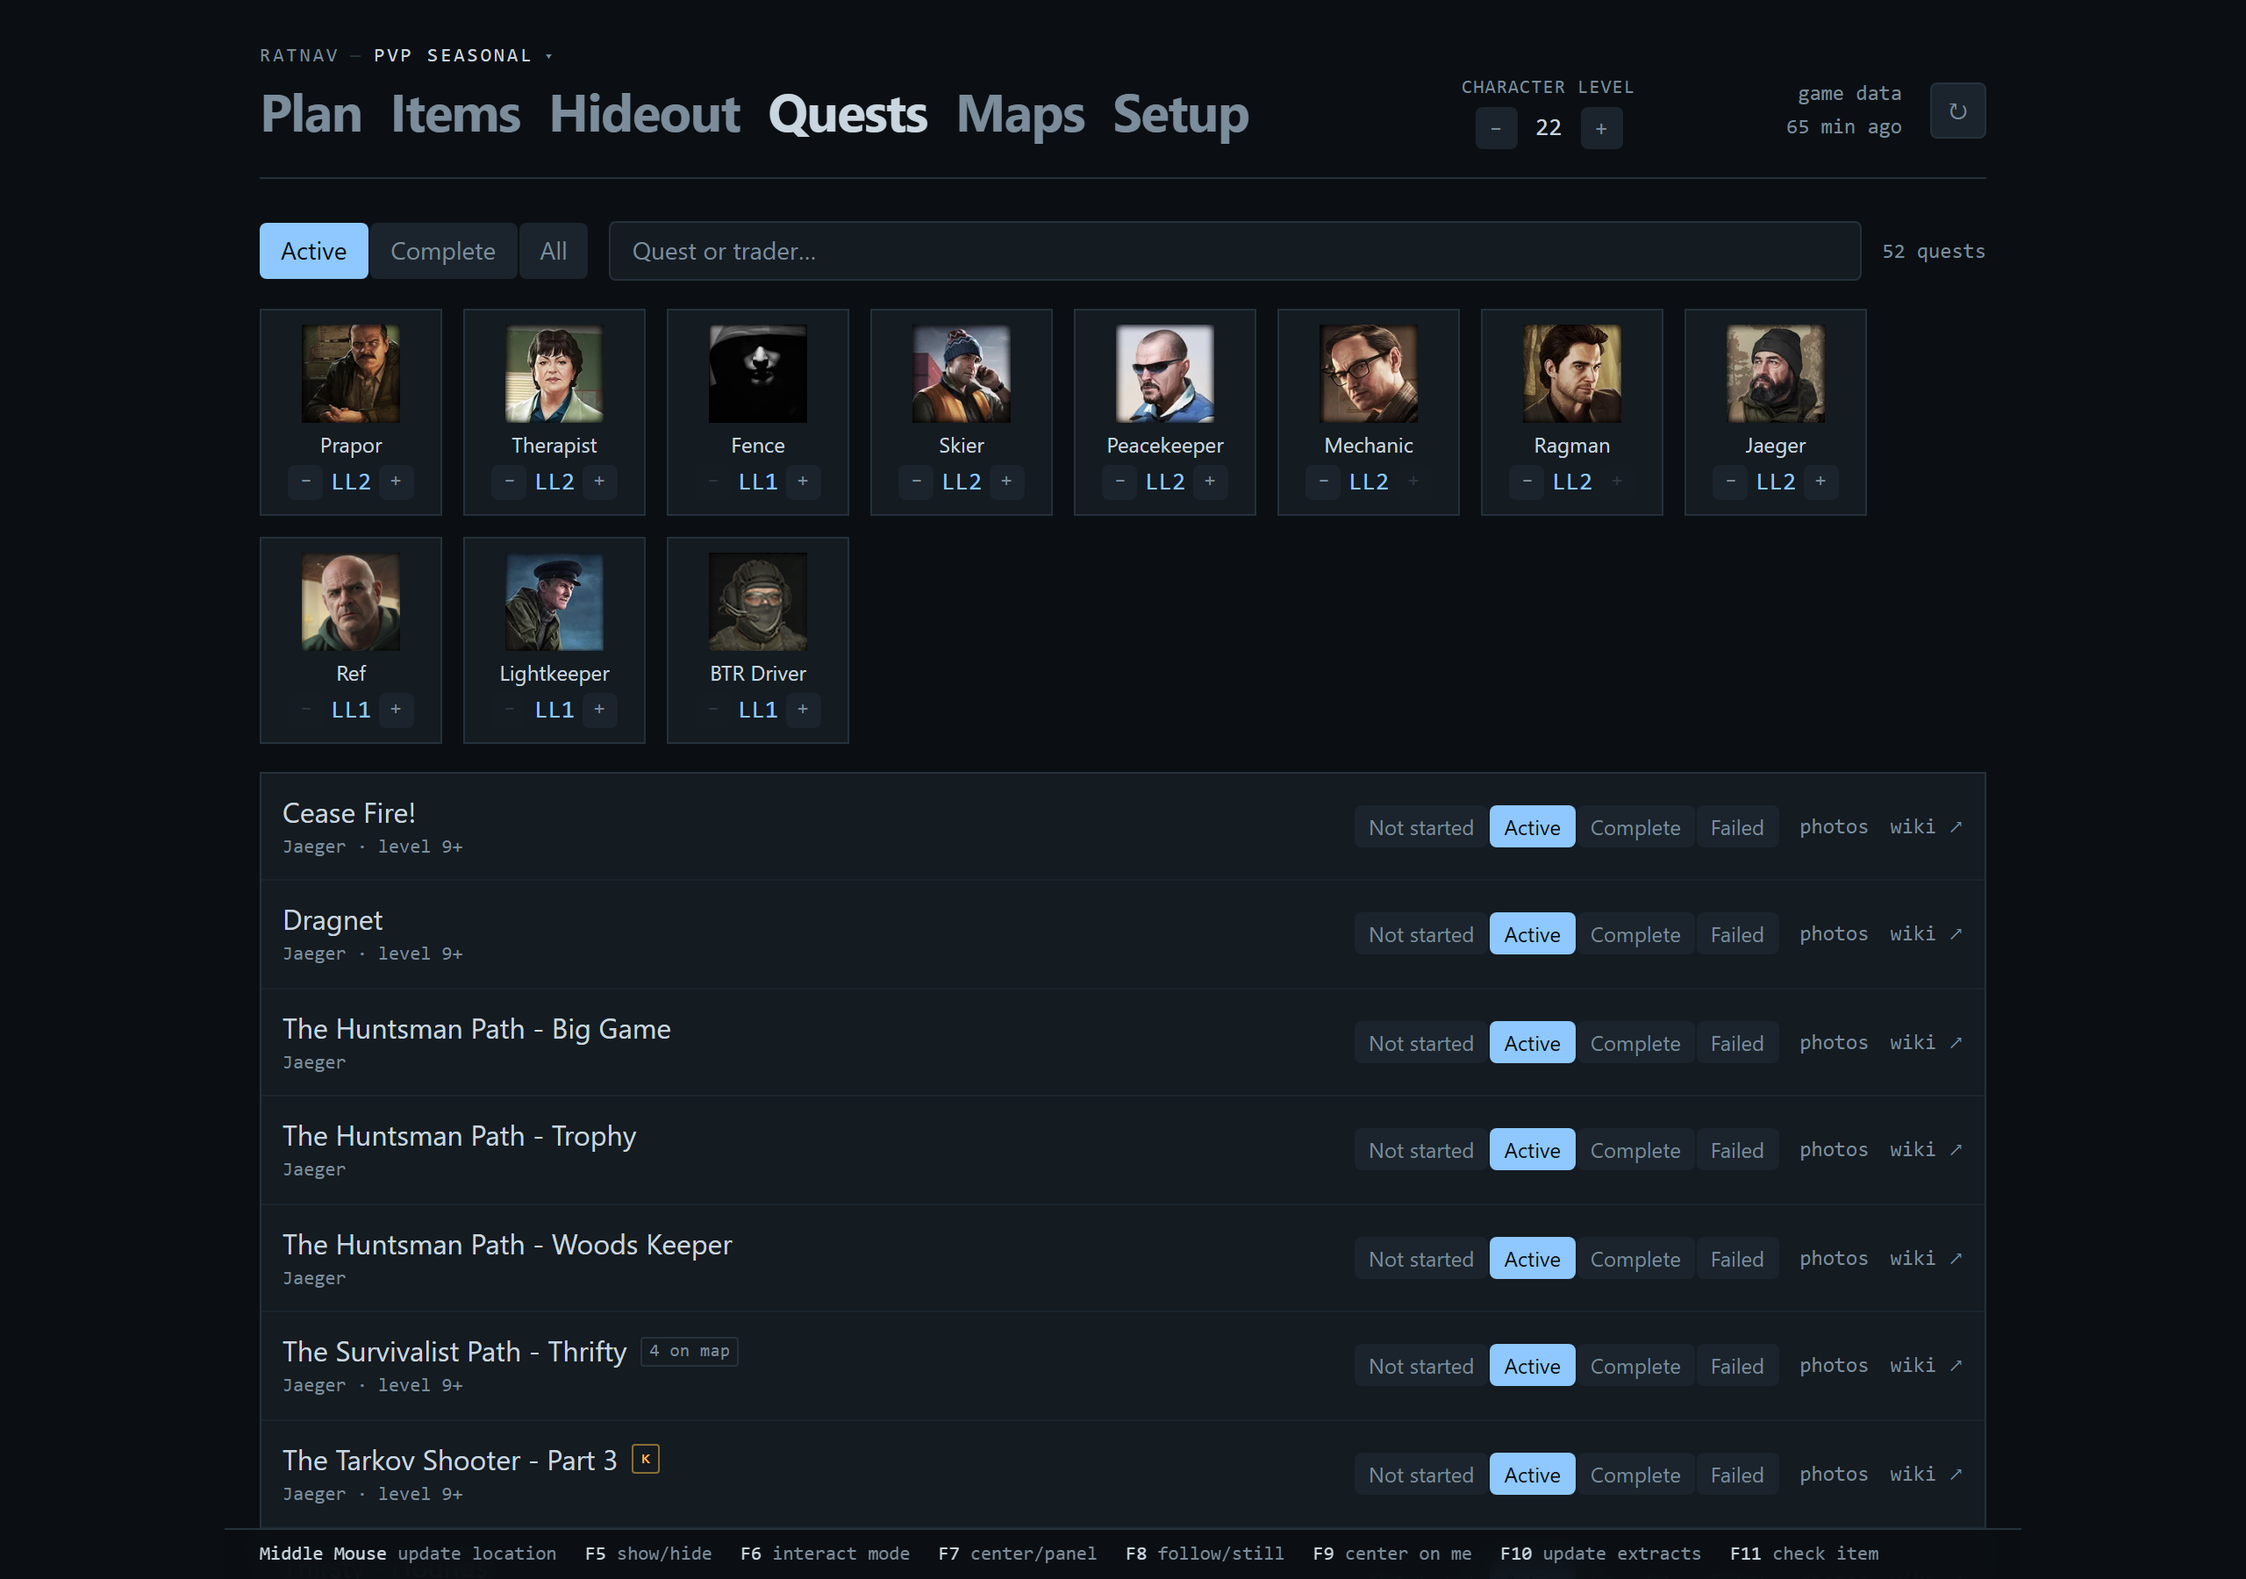
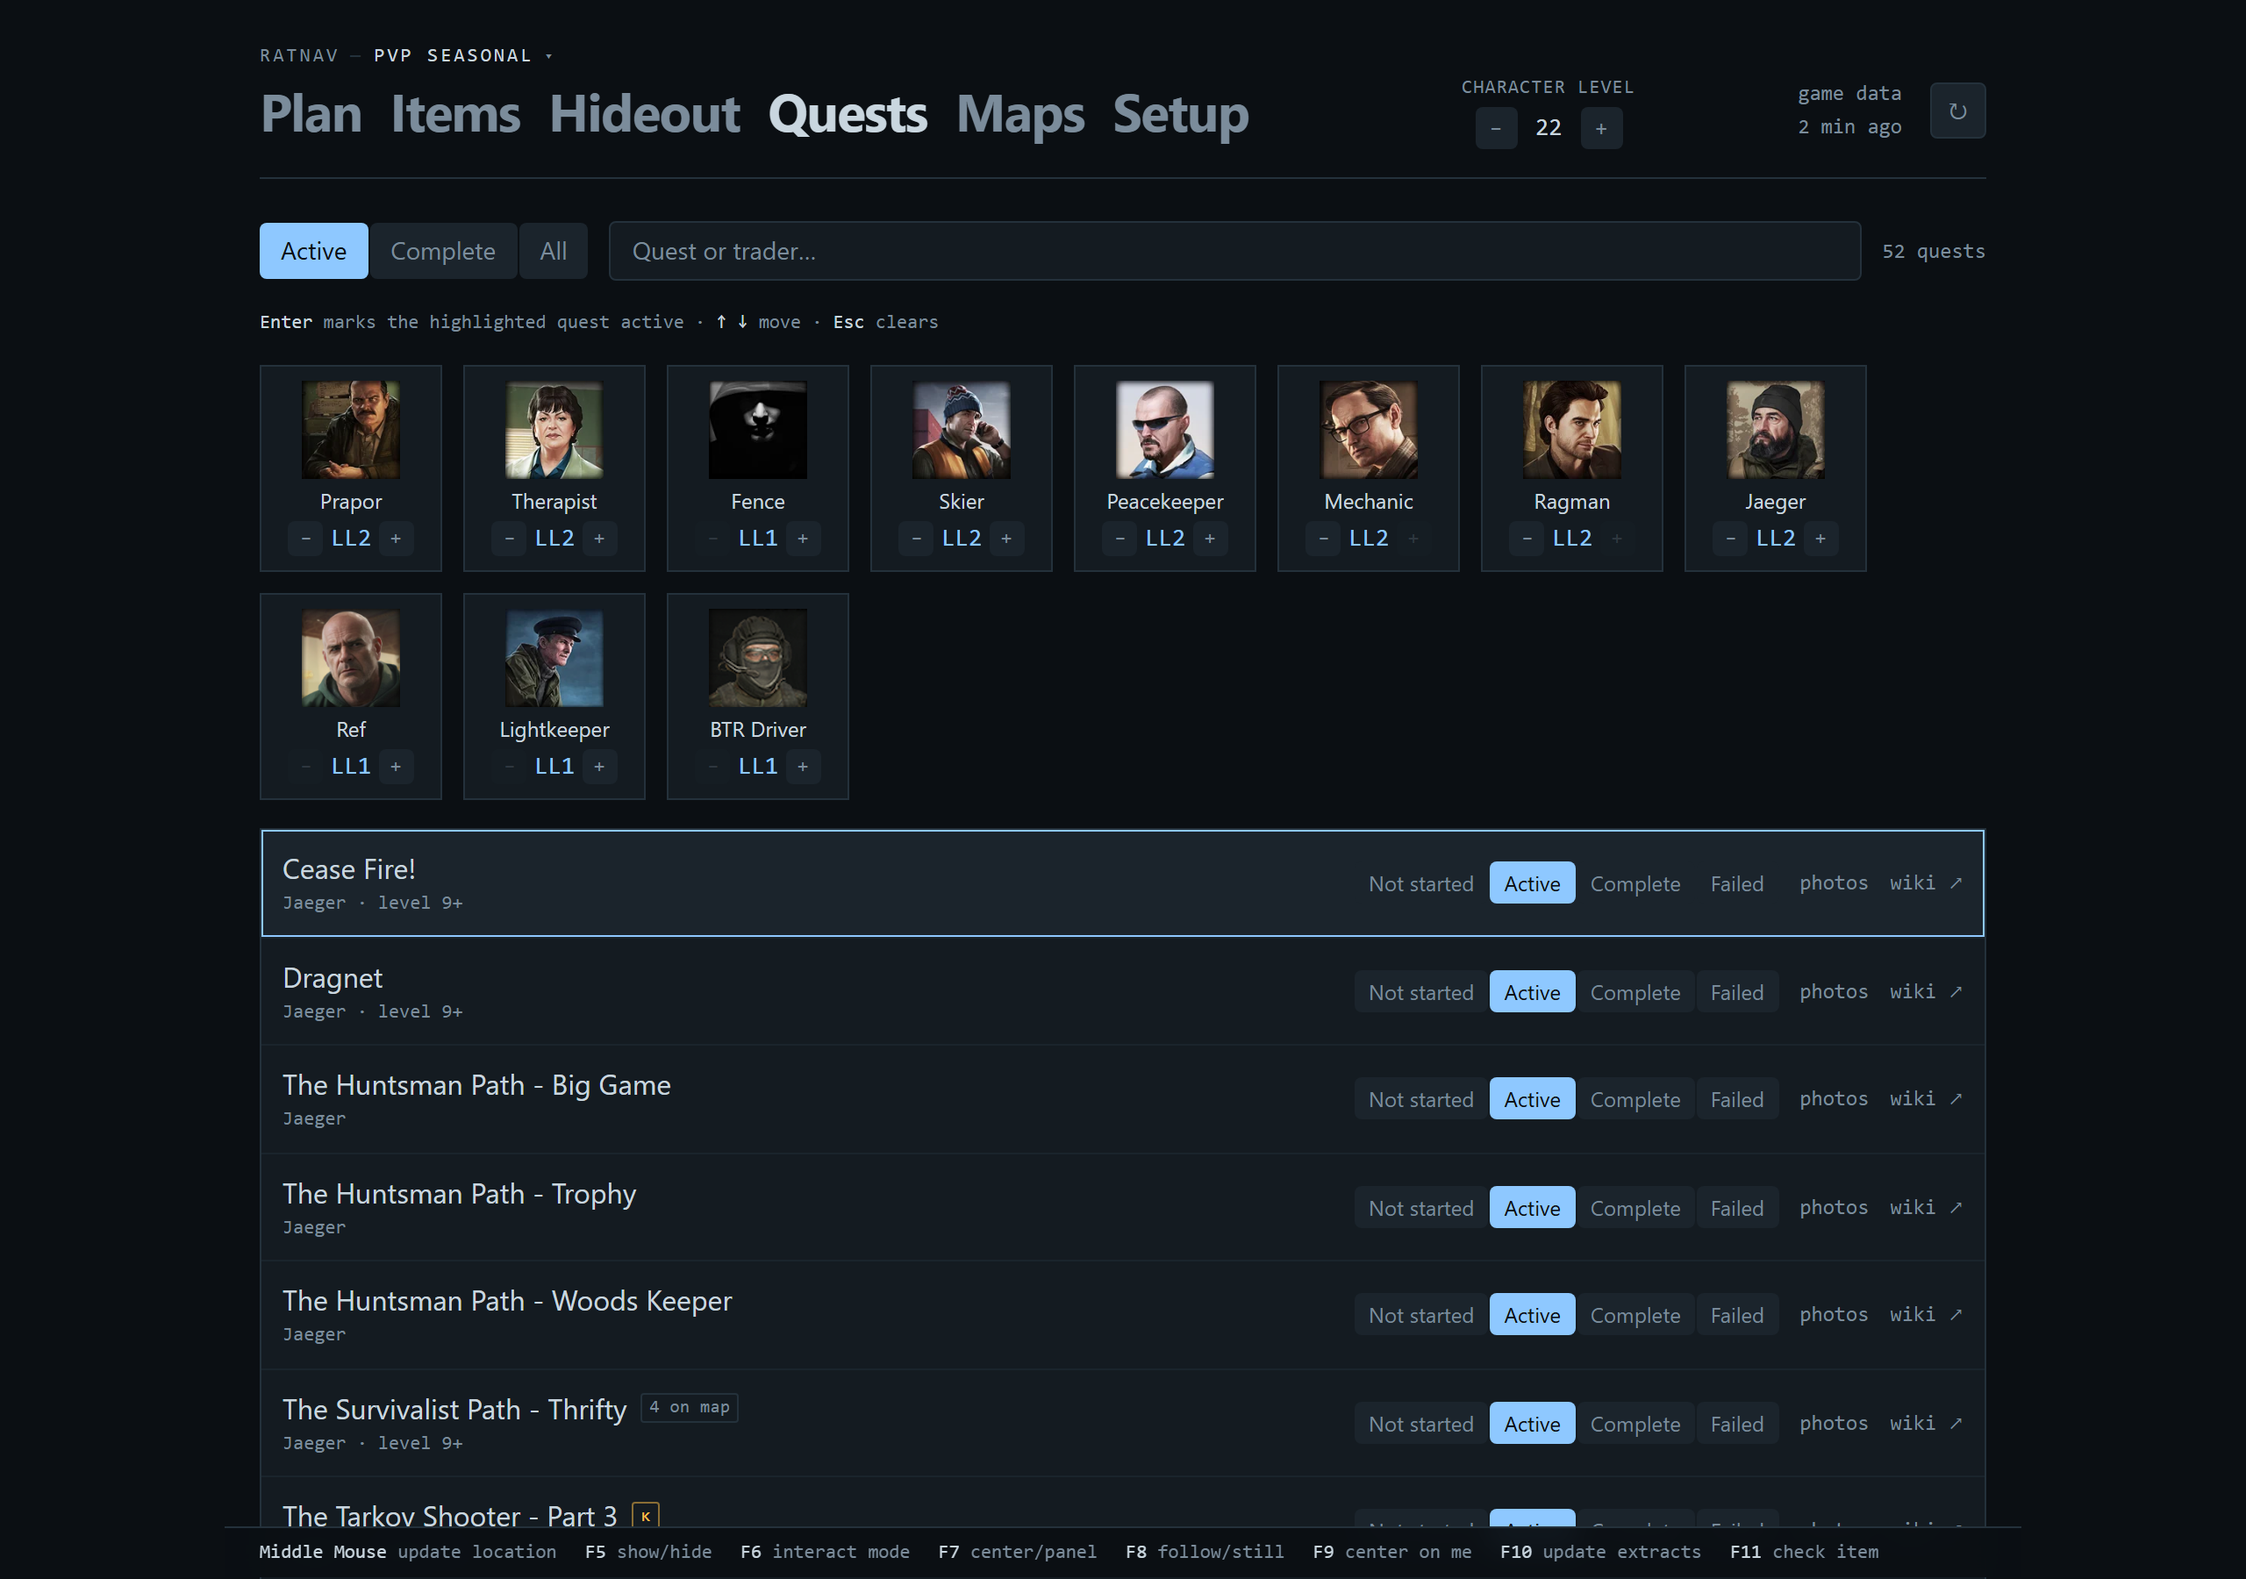
Mark a quest active from the search box (#6)
* Mark a quest active from the search box

A tester set up from scratch and had to mark over fifty quests active
with the mouse, one at a time, before seeing anything RatNav is good
for. Everything else in their feedback was positive, which makes this
the thing standing between an install and the good part.

Type part of a name, press Enter. Arrows move the highlight without the
caret leaving the text, so a search can be narrowed and picked from
without hands moving. Escape clears.

The box clearing itself after Enter is the actual feature. Typing a
name, pressing Enter, then selecting and deleting what you typed is
three actions where there should be one, and across fifty quests that
difference is the whole point.

Marking one that is already active says so rather than doing nothing,
because silence is what makes somebody type it again. Announcements go
through aria-live and are shown beside the box: the row usually scrolls
out of view as it changes state, and a change you cannot see is one you
reach for the mouse to confirm.

The input is a combobox over the list with aria-activedescendant, so
what Enter would act on is announced rather than being a highlight only
sighted users can see.

Claude-Session: https://claude.ai/code/session_0177xkMJ97wdCNeV4S9EESGa

* Document the keyboard flow, and retake the Quests shot

Behavior a user would notice changed, so the guide and README change in
the same commit — the rule exists because the docs described features
[…]

Changed region(s): [[0.125, 0.1867, 0.8438, 0.9956], [0.4375, 0.4978, 0.875, 0.9956]]

diff --git a/web/src/QuestsView.tsx b/web/src/QuestsView.tsx
@@ -1,4 +1,4 @@
-import { useCallback, useEffect, useState } from 'react'
+import { useCallback, useEffect, useRef, useState } from 'react'
 import { api, type TaskSummary, type Trader, type WikiImage } from './api'
 
 /**
@@ -41,6 +41,32 @@ export function QuestsView() {
   const [tasks, setTasks] = useState<TaskSummary[]>([])
   const [loading, setLoading] = useState(true)
 
+  /**
+   * Which row the keyboard is on.
+   *
+   * <p>Setting up a fresh install means marking fifty or more quests active, read off the game on
+   * the other monitor. Done with the mouse that is fifty round trips of type, let go of the
+   * keyboard, aim at a small button, come back — before you have seen a single thing RatNav is
+   * good for. So the whole job is done from the search box: type part of a name, press Enter.</p>
+   *
+   * <p>An index rather than an id, because the list is re-fetched as you type and an id would
+   * point at a row that is no longer shown.</p>
+   */
+  const [highlighted, setHighlighted] = useState(0)
+
+  /**
+   * Said out loud after a keystroke does something.
+   *
+   * <p>The row often scrolls out of view the moment it changes state, and a change you cannot see
+   * is one you do not trust — so you reach for the mouse to check, which is the thing this exists
+   * to avoid. Read by screen readers through aria-live, and shown next to the box for everybody
+   * else.</p>
+   */
+  const [said, setSaid] = useState('')
+
+  const searchBox = useRef<HTMLInputElement>(null)
+  const rows = useRef<(HTMLLIElement | null)[]>([])
+
   const load = useCallback(async () => {
     setLoading(true)
     try {
@@ -80,6 +106,77 @@ export function QuestsView() {
     load()
   }
 
+  // The highlight follows the list. Re-fetching on every keystroke means row 4 of the old results
+  // is nothing in particular in the new ones.
+  useEffect(() => { setHighlighted(0) }, [tasks, trader, filter])
+
+  // Keep the highlighted row on screen. Without this, arrowing down walks off the bottom and the
+  // row you are about to act on is the one you cannot see.
+  useEffect(() => {
+    rows.current[highlighted]?.scrollIntoView({ block: 'nearest' })
+  }, [highlighted])
+
+  /**
+   * Marks the highlighted quest active, then clears the box.
+   *
+   * <p>The clearing is the point. Typing a name, pressing Enter and then having to select and
+   * delete what you typed is three actions where there should be one — and with fifty quests to
+   * enter, that difference is the whole feature. Type, Enter, type, Enter.</p>
+   */
+  async function activateHighlighted() {
+    const task = shown[highlighted]
+
+    if (!task) {
+      setSaid(query ? `Nothing matches "${query}".` : 'Nothing to mark.')
+      return
+    }
+
+    if (task.state === 'Active') {
+      // Not an error and not silence. Saying so is what stops somebody typing it again.
+      setSaid(`${task.name} was already active.`)
+      setQuery('')
+      return
+    }
+
+    await setState(task, 'Active')
+    setSaid(`${task.name} is now active.`)
+    setQuery('')
+  }
+
+  /**
+   * The search box is the whole interface, so it carries the keys.
+   *
+   * <p>Arrows move the highlight without the caret leaving the text, which is what lets you narrow
+   * a search and pick from what is left without your hands moving.</p>
+   */
+  function onSearchKey(event: React.KeyboardEvent<HTMLInputElement>) {
+    if (event.key === 'ArrowDown') {
+      event.preventDefault()
+      setHighlighted((at) => Math.min(at + 1, shown.length - 1))
+      return
+    }
+
+    if (event.key === 'ArrowUp') {
+      event.preventDefault()
+      setHighlighted((at) => Math.max(at - 1, 0))
+      return
+    }
+
+    if (event.key === 'Enter') {
+      event.preventDefault()
+      void activateHighlighted()
+      return
+    }
+
+    // Escape empties the box rather than blurring it. Somebody who mistypes a name wants to type
+    // the next one, not to find their way back to the field.
+    if (event.key === 'Escape') {
+      event.preventDefault()
+      setQuery('')
+      setSaid('')
+    }
+  }
+
   return (
     <div className="flex flex-col gap-4">
       {showing && <Photos task={showing} onClose={() => setShowing(null)} />}
@@ -101,9 +198,20 @@ export function QuestsView() {
           ))}
         </div>
 
+        {/*
+          A combobox over the list below, so a screen reader announces which row Enter would act
+          on rather than leaving the highlight as something only sighted users can see.
+        */}
         <input
+          ref={searchBox}
           value={query}
           onChange={(e) => setQuery(e.target.value)}
+          onKeyDown={onSearchKey}
+          role="combobox"
+          aria-expanded={shown.length > 0}
+          aria-controls="quest-list"
+          aria-activedescendant={shown[highlighted] ? `quest-${shown[highlighted].id}` : undefined}
+          aria-label="Search quests. Enter marks the highlighted quest active."
           placeholder={filter === 'all' ? 'Search every quest…' : 'Quest or trader…'}
           className="min-w-48 flex-1 rounded-sm border border-line bg-panel px-3 py-1.5 text-sm
                      text-ink placeholder:text-muted focus-visible:outline-2 focus-visible:outline-accent"
@@ -113,6 +221,28 @@ export function QuestsView() {
           {shown.length} quests
           {failed > 0 && <span className="text-need"> · {failed} failed</span>}
         </p>
+      </div>
+
+      {/*
+        What the keys do, and what the last one did.
+
+        The hint is here rather than in the guide because somebody setting up for the first time is
+        looking at this page, not reading documentation — and this is the page where the shortcut
+        saves an hour.
+
+        aria-live is polite: it waits for a pause rather than interrupting, which is right for
+        somebody typing quickly through a list of fifty.
+      */}
+      <div className="flex flex-wrap items-center justify-between gap-3 font-mono text-[11px]">
+        <p className="text-muted">
+          <kbd className="text-ink">Enter</kbd> marks the highlighted quest active
+          {' · '}
+          <kbd className="text-ink">↑</kbd> <kbd className="text-ink">↓</kbd> move
+          {' · '}
+          <kbd className="text-ink">Esc</kbd> clears
+        </p>
+
+        <p aria-live="polite" className="text-accent">{said}</p>
       </div>
 
       {/*
@@ -207,9 +337,19 @@ export function QuestsView() {
       )}
 
       {!loading && shown.length > 0 && (
-        <ul className="flex flex-col gap-px border border-line bg-line-soft">
-          {shown.map((task) => (
-            <li key={task.id} className="flex flex-wrap items-center gap-3 bg-panel px-3 py-2.5">
+        <ul id="quest-list" className="flex flex-col gap-px border border-line bg-line-soft">
+          {shown.map((task, at) => (
+            <li
+              key={task.id}
+              id={`quest-${task.id}`}
+              ref={(row) => { rows.current[at] = row }}
+              aria-selected={at === highlighted}
+              className={`flex flex-wrap items-center gap-3 px-3 py-2.5 ${
+                at === highlighted
+                  ? 'bg-panel-hi ring-1 ring-inset ring-accent'
+                  : 'bg-panel'
+              }`}
+            >
               <div className="min-w-56 flex-1">
                 <div className="flex flex-wrap items-center gap-2">
                   <span className={

diff --git a/README.md b/README.md
@@ -225,9 +225,11 @@ what each one is *for* on the line beneath it. Filter to found-in-raid, or keys,
 ![The Items page: needed items with their icons, found-in-raid flags and what each one is for, above them the Needed, Watchlist and Custom scopes and a running count of items, how many are still needed and how many must be found in raid](docs/app/items.png)
 
 **Quests.** Every trader with their portrait and loyalty level, and each quest's state as four
-buttons — with a link to the wiki and the wiki's own screenshots of the place.
+buttons — with a link to the wiki and the wiki's own screenshots of the place. Setting up is done
+from the keyboard: type part of a name, press **Enter** to mark it active, and the box clears
+itself for the next one.
 
-![The Quests page: trader portraits with loyalty controls above a list of active quests, each with not-started, active, complete and failed controls](docs/app/quests.png)
+![The Quests page: a search box with a line beneath it saying Enter marks the highlighted quest active, arrows move and Esc clears, then trader portraits with loyalty controls, then a list of active quests with the first row highlighted, each row carrying not-started, active, complete and failed controls](docs/app/quests.png)
 
 **Hideout.** What you could build now, then what one more upgrade unlocks, each module listing what
 it still takes. Found-in-raid marked in red.

diff --git a/docs/GUIDE.md b/docs/GUIDE.md
@@ -351,6 +351,27 @@ read and write the same number, so turning it anywhere turns it everywhere.
 **Quests** has three tabs — **Active**, **Complete**, and **All** — plus a search that reaches
 every quest in the game.
 
+### Setting up, without the mouse
+
+The first thing a new install asks of you is marking every quest you have accepted as active, read
+off the game. That is fifty or more, and doing it by hand is fifty round trips between keyboard and
+mouse.
+
+So the search box does the whole job. Switch to **All**, then:
+
+| | |
+|---|---|
+| type | narrows the list — part of a name is enough |
+| **Enter** | marks the highlighted quest active, and **empties the box** |
+| **↑** **↓** | move the highlight without the caret leaving the text |
+| **Esc** | clears the box |
+
+The box emptying itself is the part that matters: type, Enter, type, Enter, without ever looking
+down. What just happened is said beside the search, because the row usually scrolls out of view as
+it changes and a change you cannot see is one you reach for the mouse to check.
+
+A quest that is already active says so rather than doing nothing quietly.
+
 Every quest carries all four states: not started, active, complete, failed. Failed is a finished
 state like complete, but it is tagged and counted separately, because a failed quest that reads as
 done is one you never go back and look at.

diff --git a/CHANGELOG.md b/CHANGELOG.md
@@ -16,8 +16,19 @@ user reads to decide whether to update.
 
 <!-- Add anything a person running RatNav would notice. Say what to go and try. -->
 
-*Nothing yet. Everything below is about how RatNav is built, not what it does — so there is nothing
-to try, and nothing to update for.*
+- **Mark a quest active without touching the mouse.** On the Quests page, type part of a name and
+  press **Enter**. The box clears itself, so the next name can be typed straight away — type,
+  Enter, type, Enter. **↑** and **↓** move the highlight without leaving the box, **Esc** clears
+  it, and what just happened is said next to the search so you do not have to go looking for the
+  row to check.
+
+  Setting up a fresh install means marking fifty or more quests active, read off the game on the
+  other monitor. Done with the mouse that is fifty round trips before you have seen a single thing
+  RatNav is good for.
+
+  *To try: open Quests, switch to **All**, type part of a quest name, press Enter. It should turn
+  active, the box should empty, and the line beside the search should say which one it was. Then
+  try arrowing down to the second match before pressing Enter.*
 
 ### Repository and process
 
